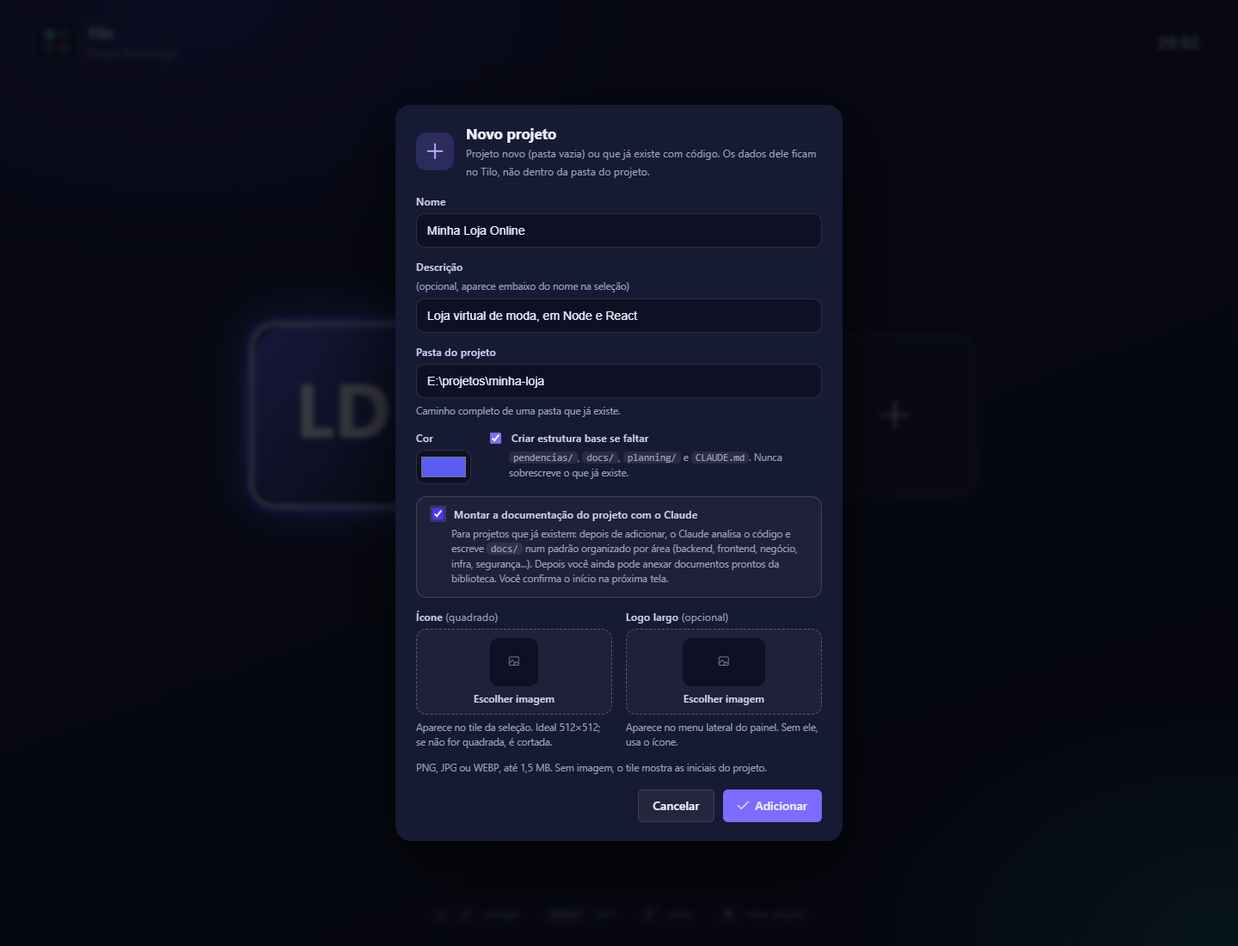
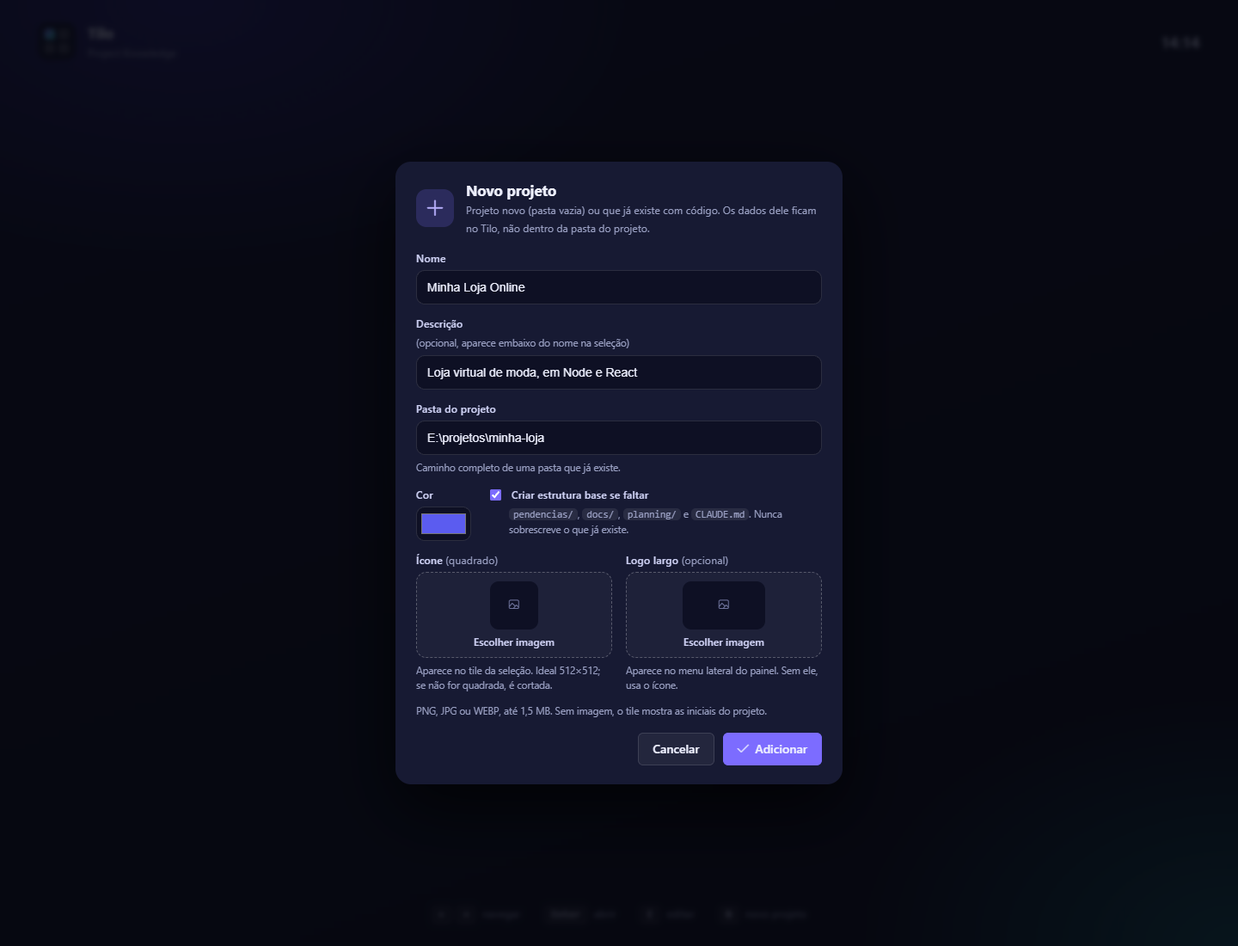
Melhoria de experiência do usuário ao excluir projeto / documentar projeto / readme
Tilo-Chat: 17b902d9-1bf7-4404-864b-627ef75b75a6

diff --git a/assets/app.js b/assets/app.js
@@ -388,11 +388,13 @@ function renderChatGit() {
   if (!g.repo) { root.innerHTML = '<span class="muted small"><i class="pi pi-info-circle"></i> Projeto sem git: não há branch para mostrar.</span>'; return; }
   root.innerHTML = gitBarHtml(g);
 }
+// Branches que existem no GitHub (já baixadas com fetch) mas ainda não têm cópia local; escolher uma cria a local e troca.
+const branchesSoRemotas = (g) => (g.remotas || []).filter((r) => { const o = (g.remotos || []).find((x) => r.startsWith(x + '/')); return o && !g.branches.includes(r.slice(o.length + 1)); });
 // Barra de git (chat e aba Alterações): branch, Nova branch, Commitar (abre o modal com os arquivos) e Pull.
 function gitBarHtml(g) {
   const dis = S.alt.busy ? 'disabled' : '', n = g.arquivos.length;
   return `${g.branches.length ? `<label class="alt-branch" title="Branch atual. Escolha outra para trocar; as alterações não commitadas acompanham você, se não houver conflito."><i class="pi pi-sitemap"></i>
-      <select class="sel sm" data-chg="alt-branch" aria-label="Branch atual" ${dis}>${g.branches.map((b) => `<option value="${esc(b)}" ${b === g.branch ? 'selected' : ''}>${esc(b)}</option>`).join('')}</select></label>`
+      <select class="sel sm" data-chg="alt-branch" aria-label="Branch atual" ${dis}>${g.branches.map((b) => `<option value="${esc(b)}" ${b === g.branch ? 'selected' : ''}>${esc(b)}</option>`).join('')}${branchesSoRemotas(g).map((r) => `<option value="${esc(r)}">${esc(r)} (só no GitHub)</option>`).join('')}</select></label>`
     : badge(g.branch || 'sem branch', 'primary', 'pi-sitemap')}
     ${g.branches.length ? `<span class="sep"></span><button class="btn sm" data-act="chat-nova-branch" ${dis} title="Cria uma branch nova a partir das suas alterações locais (branch atual) ou de outra branch, e já troca para ela."><i class="pi pi-plus"></i> Nova branch</button>` : ''}
     ${g.branches.length ? `<button class="btn sm" data-act="commit-modal" ${dis} title="${n ? 'Escolhe os arquivos alterados, escreve a mensagem e cria o commit' : 'Não há alterações para commitar'}"><i class="pi pi-check-circle"></i> Commitar${n ? ` <span class="badge tone-primary">${n}</span>` : ''}</button>` : ''}
@@ -814,6 +816,7 @@ document.addEventListener('click', async (e) => {
       case 'go': location.hash = '#/' + d.to; break;
       case 'alt-diff': await altDiff(d.p); break;
       case 'alt-commit': await altCommit(!!d.modal); break;
+      case 'alt-desfazer': await altDesfazer(d.p); break;
       case 'commit-modal': abrirCommitModal(); break;
       case 'cm-fechar': $('#cdlg').close(); break;
       case 'cm-marcar': { const A = S.alt; A.sel.clear(); if (d.v === '1') for (const a of A.dados?.arquivos || []) if (!a.sensivel) A.sel.add(a.caminho); renderAlteracoes(); break; }
@@ -892,10 +895,10 @@ document.addEventListener('click', async (e) => {
       }
       case 'revogar-sessao': await api('/api/aprovacao/sessao', { id: d.id }); toast('Aprovação automática desligada.'); await loadChats(); S.chatKey = null; updateChat(); break;
       case 'doc-iniciar': {
-        const modelo = $('#doc-modelo')?.value || 'sonnet';
+        const modelo = $('#doc-modelo')?.value || 'sonnet', branch = $('#doc-branch')?.value || '';
         
         el.disabled = true;
-        try { const c = await api('/api/documentacao/iniciar', { modo: d.modo, modelo }); toast('Documentação iniciada. Acompanhe por aqui.'); location.hash = `#/chat?s=${c.id}`; }
+        try { const c = await api('/api/documentacao/iniciar', { modo: d.modo, modelo, branch }); toast('Documentação iniciada. Acompanhe por aqui.'); location.hash = `#/chat?s=${c.id}`; }
         catch (x) { toast(x.message); el.disabled = false; }
         break;
       }
@@ -994,12 +997,21 @@ document.addEventListener('change', (e) => {
 });
 document.addEventListener('keydown', (e) => { if (e.key === 'Enter' && e.target.id === 'perm-cmd') { e.preventDefault(); document.querySelector('[data-act="perm-test"]').click(); } });
 async function loadDocumentacao(silencioso) {
-  try { const g = await api('/api/documentacao'); S.doc = { ...g, modelo: $('#doc-modelo')?.value || S.doc?.modelo || 'sonnet' }; }
+  try { const g = await api('/api/documentacao'); S.doc = { ...g, modelo: $('#doc-modelo')?.value || S.doc?.modelo || 'sonnet', branch: $('#doc-branch')?.value || S.doc?.branch || '' }; }
   catch (x) { if (!silencioso) { const r = $('#doc-root'); if (r) r.innerHTML = `<div class="note">Não consegui carregar: ${esc(x.message)}</div>`; } return; }
+  if (!S.alt.dados) await loadAlteracoes(); // a pergunta de branch precisa do estado do git
   renderDocumentacao();
   // atualiza sozinho só enquanto a documentação está sendo gerada
   if (S.docTimer && !S.doc.job?.rodando) { clearInterval(S.docTimer); S.docTimer = null; }
   if (!S.docTimer && S.doc.job?.rodando) S.docTimer = setInterval(() => { if (route() !== 'documentacao') { clearInterval(S.docTimer); S.docTimer = null; return; } loadDocumentacao(true); }, 4000);
+}
+// Pergunta em qual branch gerar a documentação (o Claude lê o código e escreve os arquivos nela). Só aparece se o projeto é um repositório git.
+function docBranchHtml(D, rodando) {
+  const g = S.alt?.dados;
+  if (!g?.repo || !g.branches.length) return '';
+  const atual = D.branch && (g.branches.includes(D.branch) || branchesSoRemotas(g).includes(D.branch)) ? D.branch : g.branch;
+  const op = (v, t) => `<option value="${esc(v)}" ${v === atual ? 'selected' : ''}>${esc(t)}</option>`;
+  return `<label title="A documentação é gerada com o código desta branch e os arquivos novos ficam nela (sem commitar). Se for outra, o Tilo troca para ela antes de começar.">Branch base <select id="doc-branch" class="sel sm" ${rodando ? 'disabled' : ''}>${g.branches.map((b) => op(b, b === g.branch ? b + ' (atual)' : b)).join('')}${branchesSoRemotas(g).map((r) => op(r, r + ' (só no GitHub)')).join('')}</select></label>`;
 }
 function renderDocumentacao() {
   const root = $('#doc-root'); if (!root || !S.doc) return;
@@ -1018,7 +1030,7 @@ function renderDocumentacao() {
       <li><b>Não mexe no código</b>, não usa terminal e não lê senhas (.env, chaves). Só escreve em <code>docs/</code>, <code>planning/</code>, <code>pendencias/</code> e <code>CLAUDE.md</code>.</li>
       <li><b>Arquivos novos</b> são criados direto. Para <b>alterar um arquivo que já existe</b>, ele pede a sua aprovação.</li>
       <li><b>Tempo e uso:</b> de 5 a 30 minutos, conforme o tamanho do projeto, usando a sua assinatura do Claude.</li></ul></details>
-    <div class="doc-acoes"><label>Modelo de IA <select id="doc-modelo" class="sel sm">${optsModelo(D.modelo || DEFAULT_MODEL)}</select></label>
+    <div class="doc-acoes"><label>Modelo de IA <select id="doc-modelo" class="sel sm">${optsModelo(D.modelo || DEFAULT_MODEL)}</select></label>${docBranchHtml(D, rodando)}
       <span class="sp"></span>
       <button class="btn ${vazio ? 'primary' : ''}" data-act="doc-iniciar" title="O Claude lê o projeto e trabalha na pasta docs/; você acompanha na conversa que abre" data-modo="criar" ${rodando ? 'disabled' : ''}><i class="pi pi-plus"></i> ${vazio ? 'Montar a documentação' : 'Criar o que falta'}</button>
       ${vazio ? '' : `<button class="btn primary" data-act="doc-iniciar" title="O Claude lê o projeto e trabalha na pasta docs/; você acompanha na conversa que abre" data-modo="atualizar" ${rodando ? 'disabled' : ''}><i class="pi pi-refresh"></i> Conferir com o código e atualizar</button>`}</div></div></div>
@@ -1206,7 +1218,8 @@ function renderAlteracoes() {
       <input type="checkbox" class="sw" data-chg="alt-sel" data-p="${esc(a.caminho)}" ${A.sel.has(a.caminho) ? 'checked' : ''} ${a.sensivel ? 'disabled' : ''} title="${a.sensivel ? 'Parece conter segredos: o Tilo não commita este arquivo' : 'Incluir este arquivo no commit'}" aria-label="Incluir ${esc(a.caminho)} no commit">
       ${badge(a.rotulo, tom)}<code class="alt-path">${esc(a.caminho)}</code>${a.antigo ? `<span class="muted small">(era ${esc(a.antigo)})</span>` : ''}
       <span class="alt-conv">${a.conversas.length ? a.conversas.map(altChip).join('') : '<span class="muted small" title="Nenhuma conversa do Tilo editou este arquivo (ou a mudança veio de um comando ou de fora do Tilo)">sem conversa vinculada</span>'}</span>
-      ${a.sensivel ? '' : `<button class="btn sm" data-act="alt-diff" data-p="${esc(a.caminho)}" title="${aberto ? 'Esconde' : 'Mostra'} o que mudou neste arquivo"><i class="pi ${aberto ? 'pi-chevron-up' : 'pi-eye'}"></i> ${aberto ? 'Esconder' : 'Ver mudanças'}</button>`}</div>
+      ${a.sensivel ? '' : `<button class="btn sm" data-act="alt-diff" data-p="${esc(a.caminho)}" title="${aberto ? 'Esconde' : 'Mostra'} o que mudou neste arquivo"><i class="pi ${aberto ? 'pi-chevron-up' : 'pi-eye'}"></i> ${aberto ? 'Esconder' : 'Ver mudanças'}</button>`}
+      ${a.sensivel || a.rotulo === 'conflito' ? '' : `<button class="btn sm danger" data-act="alt-desfazer" data-p="${esc(a.caminho)}" ${A.busy ? 'disabled' : ''} title="Volta este arquivo ao último commit (uma cópia fica na lixeira do Tilo)"><i class="pi pi-undo"></i> Desfazer</button>`}</div>
       ${aberto ? `<pre class="alt-diff">${df ? (df.erro ? esc(df.erro) : altDiffHtml(df.diff) + (df.cortado ? '\n<span class="hunk">… diff cortado (arquivo grande)</span>' : '')) : 'Carregando…'}</pre>` : ''}</li>`;
   }).join('');
   const conv = altConversasDoCommit(), nSel = A.sel.size;
@@ -1315,6 +1328,16 @@ async function altCommit(doModal) {
   catch (x) { if (doModal && A.modal) A.erroCommit = x.message; else toast(x.message); } // o toast fica atrás do modal aberto; no modal o erro aparece dentro dele
   A.busy = false; if (ok && doModal && A.modal) $('#cdlg').close();
   await loadAlteracoes(true);
+}
+async function altDesfazer(caminho) {
+  const A = S.alt, a = A.dados?.arquivos.find((x) => x.caminho === caminho);
+  if (!a) return;
+  const novo = a.rotulo === 'novo';
+  if (!(await confirmar({ titulo: `Desfazer as alterações de ${caminho}?`, texto: (novo ? 'O arquivo é novo: ele será removido da pasta do projeto.' : 'O arquivo volta ao que está no último commit e você perde o que mudou nele.') + ' Uma cópia (arquivo ou patch) fica em lixeira/descartes/ na pasta do Tilo. Fica registrado na auditoria.', ok: 'Desfazer', perigo: true, icone: 'pi-undo' }))) return;
+  A.busy = true; renderAlteracoes();
+  try { const r = await api('/api/alteracoes/descartar', { caminho }); A.sel.delete(caminho); A.abertos.delete(caminho); delete A.diffs[caminho]; toast(r.acao === 'removido' ? 'Arquivo removido' : 'Alterações desfeitas'); }
+  catch (x) { toast(x.message); }
+  A.busy = false; await loadAlteracoes(true);
 }
 async function altBranch(acao, nome, base = '') {
   const A = S.alt;

diff --git a/inicio.html b/inicio.html
@@ -31,7 +31,6 @@
     <label class="so-novo">Pasta do projeto<input id="n-raiz" required placeholder="E:\estudos\meu-novo-app"><small>Caminho completo de uma pasta que já existe.</small></label>
     <div class="row"><label>Cor<input id="n-cor" type="color" value="#5b5cf0"></label>
       <label class="chk so-novo"><input id="n-base" type="checkbox" checked> Criar estrutura base se faltar<small><code>pendencias/</code>, <code>docs/</code>, <code>planning/</code> e <code>CLAUDE.md</code>. Nunca sobrescreve o que já existe.</small></label></div>
-    <label class="chk so-novo doc"><input id="n-doc" type="checkbox"> Montar a documentação do projeto com o Claude<small>Para projetos que já existem: depois de adicionar, o Claude analisa o código e escreve <code>docs/</code> num padrão organizado por área (backend, frontend, negócio, infra, segurança...). Depois você ainda pode anexar documentos prontos da biblioteca. Você confirma o início na próxima tela.</small></label>
     <div class="imgs">
       <div class="img"><span class="lbl">Ícone <em>(quadrado)</em></span>
         <label class="drop" id="d-icone"><input id="n-icone" type="file" accept="image/png,image/jpeg,image/webp" hidden><span class="prev sq" id="p-icone"><i class="pi pi-image"></i></span><span class="t">Escolher imagem</span></label><button type="button" class="rm" id="rm-icone" hidden>Remover imagem</button>

diff --git a/assets/inicio.css b/assets/inicio.css
@@ -37,7 +37,7 @@ dialog.novo[open]{animation:pop .16s ease-out}@keyframes pop{from{opacity:0;tran
 .novo input[type=text],.novo input:not([type]){height:40px;border-radius:10px;border:1px solid var(--line);background:#0e1024;color:var(--text);padding:0 12px;font-size:.88rem;outline:none}
 .novo input:focus{border-color:var(--sel);box-shadow:0 0 0 3px #7c6cff44}
 .novo small{font-weight:400;color:var(--muted);font-size:.72rem;line-height:1.5}.novo code{background:#ffffff14;padding:0 5px;border-radius:5px}
-.novo label.doc{padding:12px 14px;border:1px solid #ffffff26;border-radius:12px;background:#ffffff08}
+
 .novo .row{display:flex;gap:18px;align-items:flex-start}
 .novo input[type=color]{width:64px;height:40px;border:1px solid var(--line);border-radius:10px;background:#0e1024;padding:3px;cursor:pointer}
 .conf label.chk{display:flex;flex-direction:row;flex-wrap:wrap;align-items:flex-start;gap:4px 9px;font-weight:600;font-size:.85rem;cursor:pointer}.conf label.chk small{flex-basis:100%;padding-left:26px;font-weight:400;color:#cfd2f5}.conf label.chk input{margin-top:2px;accent-color:#ff5d74}

diff --git a/assets/inicio.js b/assets/inicio.js
@@ -123,7 +123,6 @@ $('#novo-form').addEventListener('submit', async (e) => {
       : await api('/api/projetos', { ...dados, raiz: $('#n-raiz').value.trim(), estruturaBase: $('#n-base').checked });
     if (S.editId) r.id = S.editId, r.criado = [];
     S.v = Date.now();
-    if (!S.editId && $('#n-doc').checked) { location.href = `/p/${r.id}#/documentacao`; return; } // projeto existente: segue para a tela de documentação
     $('#novo').close();
     await carregar();
     S.sel = Math.max(0, S.projetos.findIndex((p) => p.id === r.id)); render();

diff --git a/docs/business/alteracoes.md b/docs/business/alteracoes.md
@@ -5,9 +5,9 @@ A aba **Alterações** (`#/alteracoes`) mostra o repositório git do projeto: o 
 ## O que aparece
 
 - **Cabeçalho:** branch atual e remoto (`origin/main`, "branch ainda não enviada" ou "sem GitHub configurado").
-- **Branch:** menu com as branches locais para trocar, e botão **Nova branch** (sugere o prefixo `feature-`; cria a partir da branch atual e já troca). Alterações não commitadas acompanham a troca; se conflitarem, o git recusa e o aviso aparece. Não dá para trocar enquanto o Claude trabalha no projeto (os arquivos mudariam debaixo dele). Branches só remotas não aparecem na lista.
+- **Branch:** menu com as branches locais para trocar, e botão **Nova branch** (sugere o prefixo `feature-`; cria a partir da branch atual e já troca). Alterações não commitadas acompanham a troca; se conflitarem, o git recusa e o aviso aparece. Não dá para trocar enquanto o Claude trabalha no projeto (os arquivos mudariam debaixo dele). Branches que só existem no GitHub aparecem no fim da lista como "origin/x (só no GitHub)": escolher uma cria a branch local com o mesmo nome, acompanhando a remota, e troca para ela. Só aparecem as que o git já conhece; se faltar alguma, use **Pull** (ele faz `git fetch`) para atualizar a lista.
 - **Branch e Pull no chat:** o topo da aba Conversar mostra a branch atual (mesmo menu de troca) e os botões **Nova branch**, **Commitar**, **Push** (envia os commits não enviados, com confirmação; o número é a quantidade) e **Pull**; a mesma barra aparece no topo da aba Alterações. **Commitar** abre um modal com os arquivos alterados (marcar, "Ver mudanças"), a mensagem e as conversas ligadas, com as mesmas regras da seção Ações (o número no botão é a quantidade de arquivos alterados). Nova branch pede o nome e o ponto de partida: a branch atual com as suas alterações locais (padrão) ou outra branch local/remota; as alterações não commitadas acompanham se não houver conflito. O Pull pergunta qual branch do GitHub juntar na atual (ex.: `origin/develop`, para trazer o trabalho dos outros): faz `git fetch` e `git merge` (nunca rebase nem força). Se der conflito, o merge é desfeito e nada muda; o aviso manda resolver no terminal. Como a troca de branch, não roda com o Claude trabalhando no projeto, e entra na auditoria (`tool: git`).
-- **Ainda não commitado:** arquivos modificados, novos, apagados ou renomeados, cada um com as conversas que o editaram. "Ver mudanças" abre o diff do arquivo.
+- **Ainda não commitado:** arquivos modificados, novos, apagados ou renomeados, cada um com as conversas que o editaram. "Ver mudanças" abre o diff do arquivo. **Desfazer** (por arquivo) volta o arquivo ao último commit; arquivo novo é removido da pasta (ver Ações).
 - **Commitado, mas não enviado:** commits que o GitHub ainda não tem, cada um com a conversa ligada. Sem upstream, vale todo commit que nenhum remoto tem.
 - **Histórico:** os commits da branch atual, do mais novo ao mais antigo (10 por página, com paginador numerado). Cada um mostra se já está no GitHub, a conversa ligada e, ao abrir, os arquivos e o diff de cada um. Recarrega sozinho quando muda o último commit, a branch ou a lista de não enviados. "No GitHub" vale quando algum remoto já tem o commit.
 - **Sem git:** se a pasta do projeto não está dentro de um repositório, a aba mostra o aviso "não é um repositório git". Se o programa `git` não estiver instalado, mostra "O git não foi encontrado neste computador". Projeto numa subpasta de um repositório funciona normalmente.
@@ -23,7 +23,8 @@ A aba **Alterações** (`#/alteracoes`) mostra o repositório git do projeto: o 
 
 - **Commitar:** marque os arquivos, escreva a mensagem e confirme. O commit leva só os arquivos marcados (o que estiver preparado à parte fica de fora). As conversas que editaram os arquivos vêm marcadas; dá para desmarcar ou ligar outra. Arquivos que parecem conter segredos (`.env`, `.token`, `.ssh`, `*.pem`, `*.key`, `id_*`) não são commitados nem têm o diff exibido.
 - **Enviar ao GitHub:** `git push` sem forçar, com confirmação na tela. Sem upstream, cria o vínculo com `origin`. Falhas (autenticação etc.) aparecem como aviso e nada é forçado. Se o GitHub recusar porque a branch dele tem commits que você não tem (*non-fast-forward*), o aviso explica isso e a tela oferece **Fazer rebase**: com a sua confirmação, o Tilo baixa o remoto (`git fetch`) e reaplica os seus commits não enviados por cima da branch remota (`git rebase`, só commits que o GitHub ainda não tem; eles ganham novos códigos). Em conflito, o rebase é desfeito e nada muda. O rebase não envia nada: depois dele, o **Push** é uma ação à parte, com a sua confirmação. Não roda com o Claude trabalhando no projeto e entra na auditoria.
-- As duas ações entram na auditoria (`tool: git`; o envio como produção). O Claude continua sujeito à [política de comandos](../backend/command-policy.md); estes botões são ações do dono, não do Claude.
+- **Desfazer alterações:** botão por arquivo, com confirmação. Modificado ou apagado volta ao que está no último commit (inclusive o que estava preparado); novo é removido; renomeado volta ao nome antigo. Antes, o Tilo guarda uma cópia em `lixeira/descartes/<id>-<data>/` (patch do que mudou e o arquivo atual); para recuperar, aplique o patch (`git apply`) ou copie o arquivo de volta. Não aparece para arquivos em conflito nem para os que parecem conter segredos. Não roda com o Claude trabalhando no projeto e entra na auditoria. Só atua em arquivos não commitados: commits já feitos não são tocados.
+- As ações entram na auditoria (`tool: git`; o envio como produção). O Claude continua sujeito à [política de comandos](../backend/command-policy.md); estes botões são ações do dono, não do Claude.
 
 ## Segurança
 

diff --git a/README.md b/README.md
@@ -82,9 +82,9 @@ O Tilo junta isso por projeto, num painel simples:
 ## Funcionalidades
 
 ### Seleção de projetos
-Tela estilo console: `←` `→` navegam, `Enter` abre, `1`–`9` abrem direto, `E` edita e `N` cadastra. Cada projeto tem nome, pasta, cor, ícone e logo. Ao cadastrar, o Tilo pode criar a **estrutura base** (`pendencias/`, `docs/`, `planning/`, `CLAUDE.md`), sem nunca sobrescrever nada. Serve tanto para projeto novo quanto para **projeto que já existe**: ao atrelar uma pasta com código, marque **Montar a documentação do projeto com o Claude** e a `docs/` nasce já na estrutura do Tilo.
+Tela estilo console: `←` `→` navegam, `Enter` abre, `1`–`9` abrem direto, `E` edita e `N` cadastra. Cada projeto tem nome, pasta, cor, ícone e logo. Ao cadastrar, o Tilo pode criar a **estrutura base** (`pendencias/`, `docs/`, `planning/`, `CLAUDE.md`), sem nunca sobrescrever nada. Serve tanto para projeto novo quanto para **projeto que já existe**: depois de cadastrar, a aba **Documentação** monta a `docs/` do projeto já na estrutura do Tilo.
 
-![Cadastro de projeto, com a opção de montar a documentação com o Claude](docs/img/10-novo-projeto.png)
+![Cadastro de projeto](docs/img/10-novo-projeto.png)
 
 ### Visão geral
 Críticas abertas, importantes, o que está em andamento, sessões ativas, as próximas ações críticas, as últimas alterações do git e o consumo de tokens do projeto.
@@ -130,7 +130,7 @@ Branch atual, troca e **criação de branch**, arquivos não commitados, commits
 Lista as conversas do painel e as **sessões do Claude Code que você rodou no terminal** (últimos 7 dias). Dá para ver o histórico, dar apelido, vincular a uma pendência, ocultar, continuar numa conversa do painel ou copiar o `claude --resume <id>`. O Tilo só lê esses arquivos; nunca os altera.
 
 ### Documentação com o Claude
-O Claude lê o código e monta (ou confere) a pasta `docs/` num padrão por área: `backend/`, `frontend/`, `business/`, `security/` e as demais que o projeto realmente tem, além de `planning/`, `pendencias/README.md` e `CLAUDE.md`. O modo **Conferir** monta um inventário de fatos do código e compara com cada documento, corrigindo só o que diverge. Nessa conversa o Claude **não tem terminal** e só escreve nas pastas de documentação. As instruções que ele segue estão em [`modelos/documentar.md`](modelos/documentar.md) e podem ser editadas.
+O Claude lê o código e monta (ou confere) a pasta `docs/` num padrão por área: `backend/`, `frontend/`, `business/`, `security/` e as demais que o projeto realmente tem, além de `planning/`, `pendencias/README.md` e `CLAUDE.md`. Você escolhe a **branch base** (a atual, outra local ou uma que só existe no GitHub); o Tilo troca para ela antes de começar e os arquivos novos ficam nela, sem commitar. O modo **Conferir** monta um inventário de fatos do código e compara com cada documento, corrigindo só o que diverge. Nessa conversa o Claude **não tem terminal** e só escreve nas pastas de documentação. As instruções que ele segue estão em [`modelos/documentar.md`](modelos/documentar.md) e podem ser editadas.
 
 ![Documentação](docs/img/07-documentacao.png)
 
@@ -208,7 +208,7 @@ Detalhes em [`docs/security/`](docs/security/README.md) e [`docs/backend/command
    ```
    Ou use `iniciar.cmd` (ou `npm start`). Na primeira vez, entre pelo link com token que o servidor imprime (`Primeiro acesso: http://localhost:4777/?t=...`); depois basta `http://localhost:4777/`.
 4. Abra o Tilo e clique no tile **+** (ou tecle `N`) para cadastrar seu primeiro projeto: nome, pasta (caminho completo de uma pasta que já existe), cor e, se quiser, **Criar estrutura base**.
-   - **Projeto que já tem código?** Marque **Montar a documentação do projeto com o Claude**: o Tilo abre a tela Documentação para você confirmar o início.
+   - **Projeto que já tem código?** Depois de cadastrar, abra o projeto e vá em **Documentação**: escolha a **branch base** e o modelo e confirme o início.
 5. Abra o projeto. Escreva suas pendências em `pendencias/README.md` do projeto e **não apague esse arquivo**: é a fonte de dados do painel.
 
 **Problemas comuns:** `No suitable shell found` significa que o Claude Code não achou o Git Bash. Defina `CLAUDE_CODE_GIT_BASH_PATH` (o `verificar` mostra o caminho) em `~\.claude\settings.json`, na chave `env`, e reinicie. O `bash` do WSL em `System32` não serve.

diff --git a/docs/backend/api-conventions.md b/docs/backend/api-conventions.md
@@ -80,11 +80,12 @@ Restrições de `/api/file`: o primeiro segmento do caminho precisa estar em `pa
 | `/api/permissoes/regra/remover` | `tipo`, `texto` | Remove a regra. |
 | `/api/permissoes/testar` | `tool`, `comando` | Simula a política sem executar. |
 | `/api/alteracoes/commit` | `arquivos`, `mensagem`, `chats` | Commita só os arquivos escolhidos (`git commit --only`) e acrescenta a linha `Tilo-Chat: <id>` por conversa existente. Recusa segredos e arquivos fora do status. Registra na auditoria. |
+| `/api/alteracoes/descartar` | `caminho` | Desfaz as alterações não commitadas de um arquivo (volta ao último commit; novo é removido). Guarda cópia em `lixeira/descartes/`. Recusa segredos, conflitos e arquivos fora do status. 409 se o Claude está trabalhando no projeto. Registra na auditoria. |
 | `/api/alteracoes/pull` | `remota` (ex.: `origin/develop`; vazio = upstream da branch atual) | `git fetch --prune` + `git merge --no-edit <remota>` na branch atual. A remota precisa existir no remoto após o fetch. Em conflito, `merge --abort` e erro 400. 409 se o Claude estiver trabalhando no projeto. Registra na auditoria. `GET /api/alteracoes` ganhou `remotas` (branches remotas conhecidas). |
 | `/api/alteracoes/branch` | `acao` (`trocar` ou `criar`), `nome`, `base` (opcional, só em `criar`: branch local ou remota de partida; vazio = ponto atual) | Troca para uma branch local existente ou cria uma nova a partir do ponto atual (`git switch` / `git switch -c`). Nome validado (letras, números, `.`, `_`, `-`, `/`; sem `..`; `check-ref-format`). 409 se o Claude estiver trabalhando no projeto. Registra na auditoria. |
 | `/api/alteracoes/push` | (vazio) | Envia os commits ao remoto, sem forçar. Sem upstream, cria o vínculo com `origin`. Registra na auditoria como produção. Se o remoto recusar por estar à frente (*non-fast-forward*), responde 400 com `{ erro, acao: 'rebase' }` e a tela oferece o rebase. |
 | `/api/alteracoes/rebase` | (vazio) | `git fetch --prune` + `git rebase <upstream>` (ou `origin/<branch>`): reaplica os commits locais não enviados sobre o remoto. Em conflito, `rebase --abort` e erro 400. 409 se o Claude estiver trabalhando no projeto. Não envia nada. Registra na auditoria. |
-| `/api/documentacao/iniciar` | `modo` (`criar` ou `atualizar`), `modelo` | Inicia a conversa de documentação. |
+| `/api/documentacao/iniciar` | `modo` (`criar` ou `atualizar`), `modelo`, `branch` (opcional) | Inicia a conversa de documentação. Com `branch`, troca para ela antes (local, ou `origin/x` que cria a local); 409 se o Claude está trabalhando no projeto, 400 se o git recusar a troca. |
 | `/api/biblioteca/publicar` | `arquivos` | Copia documentos de `docs/` para a biblioteca. |
 | `/api/biblioteca/remover` | `id` ou `colecao` | Remove um documento ou uma coleção. |
 | `/api/biblioteca/anexar` | `ids`, `modo` (`adaptar` ou cópia), `modelo` | Anexa documentos ao projeto (até 40). |

diff --git a/docs/business/projetos.md b/docs/business/projetos.md
@@ -19,9 +19,9 @@ Permitir que o dono registre as pastas dos seus projetos e abra o painel de cada
 
 ## 3. Fluxos
 
-- **Cadastrar:** tela de seleção, tile "+" ou tecla `N`. Opções: "Criar estrutura base se faltar" (marcada por padrão) e "Montar a documentação do projeto com o Claude".
+- **Cadastrar:** tela de seleção, tile "+" ou tecla `N`. Opção: "Criar estrutura base se faltar" (marcada por padrão). A documentação com o Claude não é pedida no cadastro: fica na aba Documentação do projeto.
 - **Estrutura base:** cria, sem sobrescrever nada que exista, `pendencias/README.md`, `docs/README.md`, `planning/README.md` e `CLAUDE.md`, com textos iniciais curtos.
-- **Montar a documentação:** depois de cadastrar, abre a tela Documentação do projeto; o início da execução ainda precisa ser confirmado ali ([documentacao-com-claude.md](documentacao-com-claude.md)).
+- **Montar a documentação:** depois de cadastrar, abra o projeto e use a aba Documentação ([documentacao-com-claude.md](documentacao-com-claude.md)). Lá você escolhe a branch base e confirma o início.
 - **Editar:** tecla `E` ou botão "Editar projeto". Muda nome, descrição, cor e imagens; a pasta não muda. Dá para remover o ícone ou o logo (volta ao cartão com as iniciais).
 - **Imagem ausente:** o tile e o menu mostram um cartão SVG com as iniciais do nome sobre a cor do projeto.
 - **Dados do projeto:** ficam em `dados/<id>/`, fora da pasta do projeto ([../backend/data-storage.md](../backend/data-storage.md)).

diff --git a/docs/business/documentacao-com-claude.md b/docs/business/documentacao-com-claude.md
@@ -17,9 +17,10 @@ Gerar e manter a documentação oficial do projeto num padrão por área, a part
 
 ## 3. Fluxo
 
-1. O dono escolhe o modo e o modelo e inicia; o servidor cria uma conversa de documentação e abre a tela de conversa.
-2. O Claude trabalha sem terminal, só com leitura (`Read`, `Grep`, `Glob`) e escrita (`Write`, `Edit`).
-3. A tela Documentação se atualiza a cada 4 segundos enquanto roda, mostrando contagem por área e a lista de arquivos; fica o link para a conversa com o resumo final.
+1. O dono escolhe o modo, o modelo e, se o projeto é um repositório git, a **branch base** (a atual vem selecionada; também aparecem as que só existem no GitHub) e inicia; o servidor cria uma conversa de documentação e abre a tela de conversa.
+2. Se a branch escolhida não é a atual, o Tilo troca para ela antes de começar (alterações não commitadas acompanham; se conflitarem, o git recusa, o aviso aparece e nada começa). A troca entra na auditoria e não roda com o Claude trabalhando no projeto. Os documentos são lidos do código dessa branch e os arquivos novos ficam nela, sem commitar.
+3. O Claude trabalha sem terminal, só com leitura (`Read`, `Grep`, `Glob`) e escrita (`Write`, `Edit`).
+4. A tela Documentação se atualiza a cada 4 segundos enquanto roda, mostrando contagem por área e a lista de arquivos; fica o link para a conversa com o resumo final.
 
 ## Regras
 

diff --git a/docs/frontend/architecture.md b/docs/frontend/architecture.md
@@ -15,7 +15,7 @@ O backend substitui marcadores nas páginas ao servi-las: `__NONCE__` (todas), e
 
 - Carrega `/api/projetos` e desenha uma fileira de tiles (ícone de cada projeto) mais o tile "+".
 - Teclado: setas navegam, `Enter` abre, `1`–`9` abrem direto, `E` edita o selecionado, `N` cadastra.
-- Formulário (`<dialog id="novo">`) serve para cadastrar e editar: nome, descrição, pasta (só no cadastro), cor, ícone e logo, "Criar estrutura base" e "Montar a documentação do projeto com o Claude". Imagens: PNG, JPG ou WEBP até 1,5 MB, conferidas no cliente e de novo no servidor.
+- Formulário (`<dialog id="novo">`) serve para cadastrar e editar: nome, descrição, pasta (só no cadastro), cor, ícone e logo, e "Criar estrutura base". Imagens: PNG, JPG ou WEBP até 1,5 MB, conferidas no cliente e de novo no servidor.
 - Atalhos de URL: `/#novo` abre o cadastro; `/#editar` edita o projeto selecionado.
 - Relógio no topo atualizado a cada 15 segundos.
 - Se o cadastro marcou a documentação, segue para `/p/<id>#/documentacao`.

diff --git a/CHANGELOG.md b/CHANGELOG.md
@@ -4,6 +4,15 @@ Formato baseado em [Keep a Changelog](https://keepachangelog.com/pt-BR/1.1.0/); 
 
 ## [Não lançado]
 
+### Adicionado
+- Aba Documentação pergunta a **branch base** antes de gerar (inclui branches que só existem no GitHub).
+- Seletor de branch lista as branches que só existem no GitHub e cria a local ao escolher.
+- Botão **Desfazer** por arquivo em "Ainda não commitado", com cópia na lixeira do Tilo.
+- "Tirar da lista" ganha as opções de apagar os dados do Tilo e o `pendencias/README.md` do projeto (vão para `lixeira/`, com confirmação digitando o nome).
+
+### Removido
+- Opção "Montar a documentação do projeto com o Claude" do cadastro de projeto (agora só na aba Documentação).
+
 ### Alterado
 - README: slogan "Tilo: Project Knowledge", seção "Como utilizar o Tilo" no início (instalação, licença gratuita, licença empresarial e patrocínio) e melhorias gerais de apresentação.
 - Apoio voluntário pelo Buy Me a Coffee divulgado no README (não concede licença comercial).

diff --git a/docs/backend/data-storage.md b/docs/backend/data-storage.md
@@ -13,6 +13,7 @@ Cobre os arquivos e pastas que o servidor lê e grava. O Tilo não usa banco de 
 | `dados/<id>/auditoria.jsonl` | Log de auditoria (uma linha JSON por evento). | ignorado |
 | `logos/<id>-icone.<ext>`, `logos/<id>-logo.<ext>` | Imagens do projeto (`png`, `jpg` ou `webp`). | ignorado |
 | `lixeira/<id>-<data>/` | Projeto removido com "apagar": `projeto.json` (cadastro), `dados/`, `logos/` e `pendencias-README.md`. Para desfazer, copie de volta. Esvazie à mão quando quiser. | ignorado |
+| `lixeira/descartes/<id>-<data>/` | Cópia (patch ou arquivo) do que o botão Desfazer da aba Alterações descartou. | ignorado |
 | `catalogo/<coleção>/<área>/<arquivo>.md` e `catalogo/<coleção>/manifest.json` | Biblioteca de documentos. | ignorado |
 | `.token` | Token de acesso. | ignorado |
 | `tilo.log`, `tilo.err.log` | Saída do servidor iniciado pelo atalho. | ignorado |
